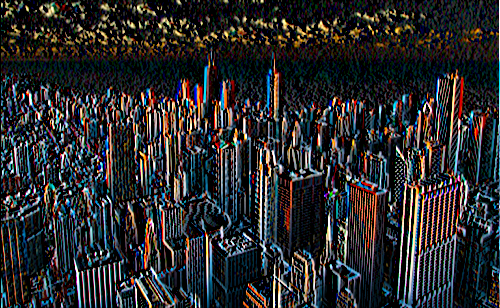
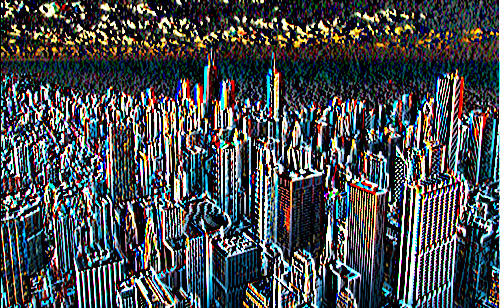
End Gui2

diff --git a/main.py b/main.py
@@ -1,6 +1,7 @@
 # TODO
-# add sharpness
-
+'''
+fix bug with display scailing
+'''
 import pygame
 import pygame_gui
 import easygui
@@ -9,14 +10,23 @@ from Scene import Scene
 import shutil
 from controller import Controller
 import os
+from ScreenSize import get_window
 
 # -------initialize-------
 
 controller_for_image = Controller()
 pygame.init()
 
+# --get display size--
+wd, hd = get_window()
+# wd, hd = 3840, 3400
+settings.screen_cof = (wd / settings.Width, hd / settings.Height)
+print(settings.screen_cof)
+# --get display size--
+
+
 pygame.display.set_caption('Quick Start')
-window_surface = pygame.display.set_mode((settings.Width, settings.Height))
+window_surface = pygame.display.set_mode((settings.Width, settings.Height), )
 
 background = pygame.Surface((settings.Width, settings.Height))
 background.fill(pygame.Color('#72C1F2'))
@@ -42,7 +52,7 @@ second_menu.add_text((620, 225), "Hi there,small photo editor for you is here", 
 work_scene = Scene('res/theme.json', "work scene")
 work_scene.add_button((165, 600), (200, 90), "Brightness")
 work_scene.add_button((415, 600), (200, 90), "Set Color")
-work_scene.add_button((665, 600), (200, 90), "Adge")
+work_scene.add_button((665, 600), (200, 90), "Sharp")
 work_scene.add_button((915, 600), (200, 90), "exit")
 work_scene.add_button((0, 50), (150, 90), "save")
 # initialize work  scene
@@ -68,12 +78,30 @@ clock = pygame.time.Clock()
 is_running = True
 image_path = ""
 original_image_path = ""
+
+# initialize Sharp scene
+sharp_scene = Scene('res/theme.json', "sharp scene")
+rect = pygame.Rect(200, 600, 600, 30)
+sharp_scene.add_slider(rect, "slider")
+sharp_scene.add_button((915, 600), (200, 90), "exit")
+
 # -------initialize-------
 while is_running:
     time_delta = clock.tick(60) / 1000.0
     for event in pygame.event.get():
         if event.type == pygame.QUIT:
             is_running = False
+            original_image_path = ""
+            if os.path.exists(image_path):
+                os.remove(image_path)
+
+            if os.path.exists("brightness." + image_path.split(".")[-1]):
+                os.remove("brightness." + image_path.split(".")[-1])
+            if os.path.exists("color." + image_path.split(".")[-1]):
+                os.remove("color." + image_path.split(".")[-1])
+            if os.path.exists("sharp." + image_path.split(".")[-1]):
+                os.remove("sharp." + image_path.split(".")[-1])
+            image_path = ""
 
         if event.type == pygame.USEREVENT:
             if event.user_type == pygame_gui.UI_BUTTON_PRESSED:
@@ -92,6 +120,7 @@ while is_running:
                     work_scene.add_image(image_path, settings.Image_position, settings.Image_scale, "image")
                     brightness_scene.add_image(image_path, settings.Image_position, settings.Image_scale, "image")
                     color_scene.add_image(image_path, settings.Image_position, settings.Image_scale, "image")
+                    sharp_scene.add_image(image_path, settings.Image_position, settings.Image_scale, "image")
                     scene = work_scene
                 if scene.name == "second menu" and event.ui_element == scene.buttons["exit"]:
                     is_running = False
@@ -106,6 +135,11 @@ while is_running:
                         os.remove("brightness." + image_path.split(".")[-1])
                     if os.path.exists("color." + image_path.split(".")[-1]):
                         os.remove("color." + image_path.split(".")[-1])
+                    if os.path.exists("sharp." + image_path.split(".")[-1]):
+                        os.remove("sharp." + image_path.split(".")[-1])
+                    brightness_scene.sliders["slider"].set_current_value(100)
+                    color_scene.sliders["slider"].set_current_value(100)
+                    sharp_scene.sliders["slider"].set_current_value(100)
                     image_path = ""
                 if scene.name == "work scene" and event.ui_element == scene.buttons["save"]:
                     shutil.copy(image_path, original_image_path)
@@ -113,27 +147,39 @@ while is_running:
                     scene = brightness_scene
                 if scene.name == "work scene" and event.ui_element == scene.buttons["Set Color"]:
                     scene = color_scene
-
+                if scene.name == "work scene" and event.ui_element == scene.buttons["Sharp"]:
+                    scene = sharp_scene
                 if scene.name == "brightness scene" and event.ui_element == scene.buttons["exit"]:
                     shutil.copy("brightness." + image_path.split(".")[-1], ".image." + image_path.split(".")[-1])
                     work_scene.add_image(image_path, settings.Image_position, settings.Image_scale, "image")
                     color_scene.add_image(image_path, settings.Image_position, settings.Image_scale, "image")
+                    sharp_scene.add_image(image_path, settings.Image_position, settings.Image_scale, "image")
                     scene = work_scene
 
                 if scene.name == "color scene" and event.ui_element == scene.buttons["exit"]:
                     shutil.copy("color." + image_path.split(".")[-1], ".image." + image_path.split(".")[-1])
                     work_scene.add_image(image_path, settings.Image_position, settings.Image_scale, "image")
                     brightness_scene.add_image(image_path, settings.Image_position, settings.Image_scale, "image")
+                    sharp_scene.add_image(image_path, settings.Image_position, settings.Image_scale, "image")
+                    scene = work_scene
+                if scene.name == "sharp scene" and event.ui_element == scene.buttons["exit"]:
+                    shutil.copy("sharp." + image_path.split(".")[-1], ".image." + image_path.split(".")[-1])
+                    work_scene.add_image(image_path, settings.Image_position, settings.Image_scale, "image")
+                    brightness_scene.add_image(image_path, settings.Image_position, settings.Image_scale, "image")
+                    color_scene.add_image(image_path, settings.Image_position, settings.Image_scale, "image")
                     scene = work_scene
             if event.user_type == pygame_gui.UI_HORIZONTAL_SLIDER_MOVED:
                 if scene.name == "brightness scene" and event.ui_element == scene.sliders["slider"]:
                     controller_for_image.apply_brighten(image_path, scene.sliders["slider"].current_value)
                     scene.add_image("brightness." + image_path.split(".")[-1], settings.Image_position,
                                     settings.Image_scale, "image")
-                    print(scene.sliders["slider"].current_value)
                 if scene.name == "color scene" and event.ui_element == scene.sliders["slider"]:
                     controller_for_image.apply_color(image_path, scene.sliders["slider"].current_value)
                     scene.add_image("color." + image_path.split(".")[-1], settings.Image_position,
+                                    settings.Image_scale, "image")
+                if scene.name == "sharp scene" and event.ui_element == scene.sliders["slider"]:
+                    controller_for_image.apply_sharpness(image_path, scene.sliders["slider"].current_value)
+                    scene.add_image("sharp." + image_path.split(".")[-1], settings.Image_position,
                                     settings.Image_scale, "image")
         scene.manager.process_events(event)
 

diff --git a/Scene.py b/Scene.py
@@ -13,9 +13,10 @@ class Scene:
         self.sliders = dict()
 
     def add_button(self, position: (int, int), size: (int, int), text: str):
-        button = pygame_gui.elements.UIButton(relative_rect=pygame.Rect(position, size),
-                                              text=text,
-                                              manager=self.manager)
+        button = pygame_gui.elements.UIButton(
+            relative_rect=pygame.Rect(position, settings.update(size)),
+            text=text,
+            manager=self.manager)
         self.buttons[text] = button
 
     def add_text(self, position: (int, int), text: str, color: (int, int, int),
@@ -28,13 +29,23 @@ class Scene:
 
     def add_image(self, path: str, position: (int, int), size: (int, int), name: str):
         image = pygame.image.load(path)
-        image = pygame.transform.scale(image, size)
+        im_x, im_y = pygame.Surface.get_size(image)
+        fl_x, fl_y = (size)
+        fl_x = min(im_x, fl_x)
+        fl_y = min(im_y, fl_y)
+        f_size = (fl_x, fl_y)
+        image = pygame.transform.scale(image, f_size)
+        x, y = position
+        sx, sy = settings.update(size)
+        x = x + (sx - fl_x) / 2
+        y = y + (sy - fl_y) / 2
+        position = (x, y)
         self.images[name] = (image, position)
 
     def add_slider(self, rect: pygame.Rect, name: str):
         slider = pygame_gui.elements.UIHorizontalSlider(rect, 100, (0, 200), manager=self.manager)
         self.sliders[name] = slider
-        # slider.sliding_button
+        # slider.set_current_valu(50)
 
     def draw(self, window):
         self.manager.draw_ui(window)

diff --git a/controller.py b/controller.py
@@ -13,6 +13,10 @@ class Controller:
 
     def apply_color(self, path: str, factor: float):
         im = Image.open(path)
-        enh = ImageEnhance.Contrast(im)
+        enh = ImageEnhance.Color(im)
         enh.enhance(factor / 100).save("color." + path.split(".")[-1])
 
+    def apply_sharpness(self, path: str, factor: float):
+        im = Image.open(path)
+        enh = ImageEnhance.Sharpness(im)
+        enh.enhance(factor / 100).save("sharp." + path.split(".")[-1])

diff --git a/settings.py b/settings.py
@@ -2,3 +2,10 @@ Height = 720
 Width = 1280
 Image_position = (180, 40)
 Image_scale = (920, 517)
+screen_cof = 0
+
+
+def update(vect2: (int, int)):
+    a, b = vect2
+    x, y = screen_cof
+    return (a * x, b * y)

diff --git a/ScreenSize.py b/ScreenSize.py
@@ -1,0 +1,5 @@
+import pyautogui
+
+
+def get_window():
+    return pyautogui.size()
